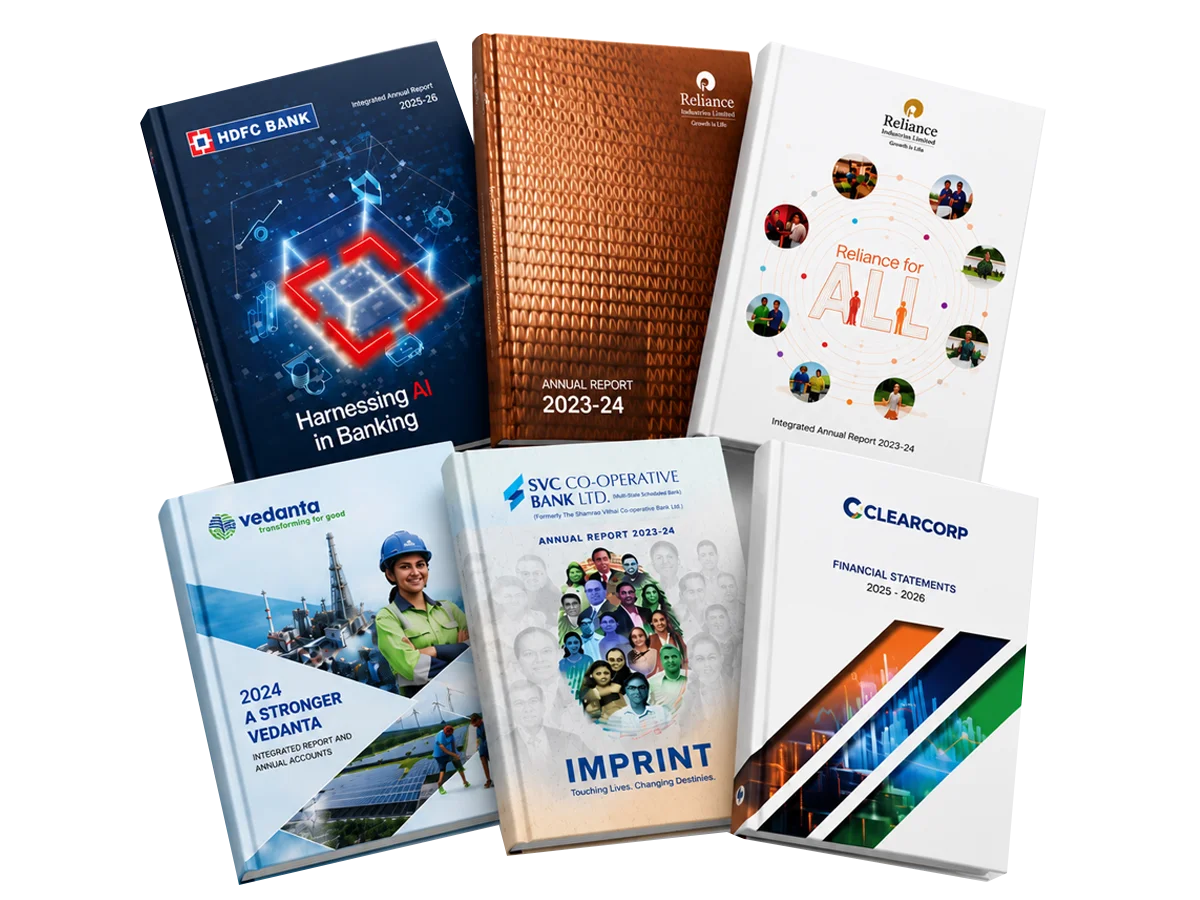
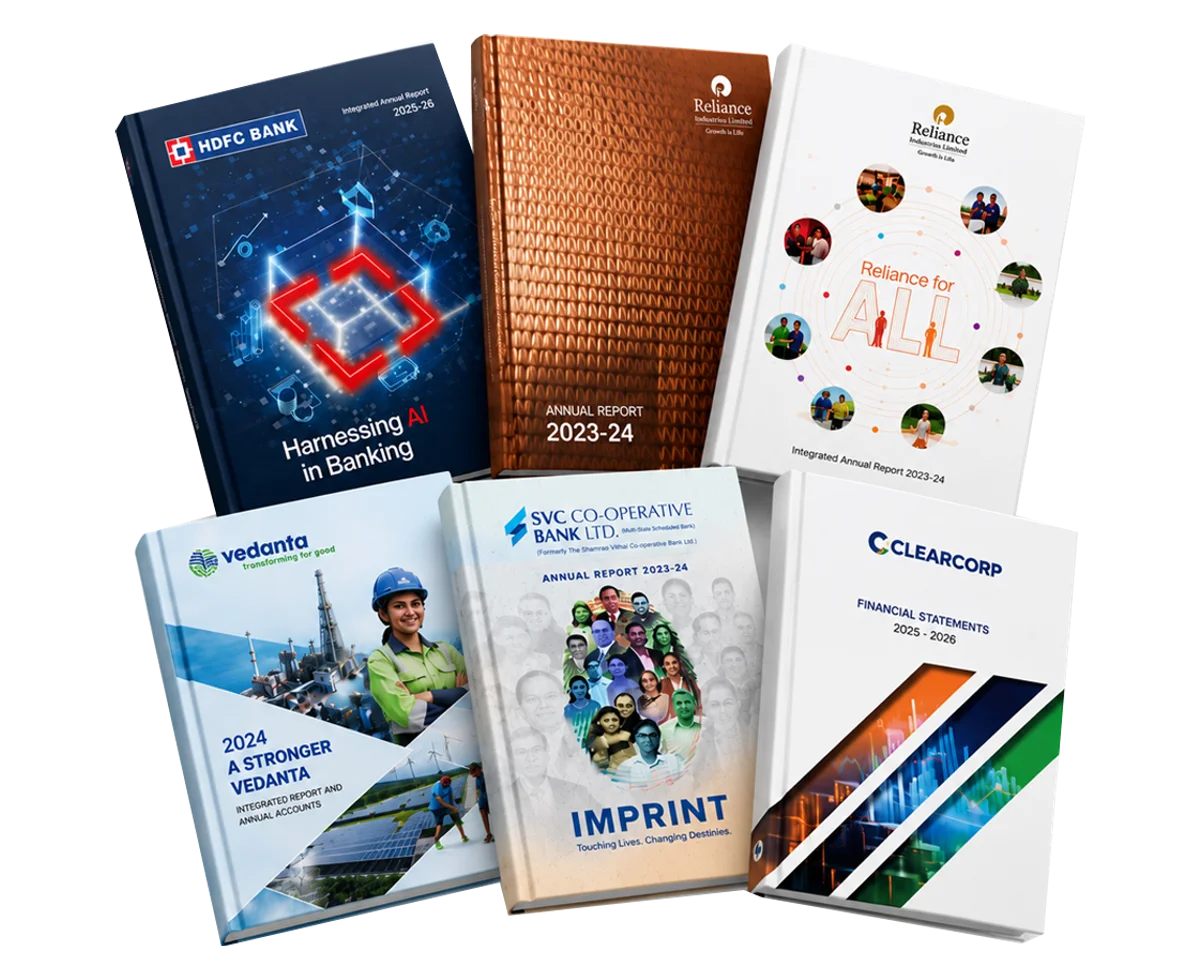
Enlarge category cutouts: trim transparent margins, fill card width in WWP and Explore

Changed region(s): [[0.0925, 0.0311, 0.8942, 0.9956], [0.3083, 0.0311, 0.37, 0.0622]]

diff --git a/src/pages/PrintOnDemand.css b/src/pages/PrintOnDemand.css
@@ -1013,7 +1013,8 @@
   display: flex; flex-direction: column; align-items: center; gap: 10px;
   height: 100%;
   text-decoration: none;
-  padding: 14px 12px 16px;
+  /* Slim horizontal padding so the cutout thumb spans nearly edge to edge. */
+  padding: 14px 6px 16px;
   background: #fdfaf4;
   border: 1px solid rgba(3, 12, 49, 0.1);
   border-radius: var(--radius-md, 14px);
